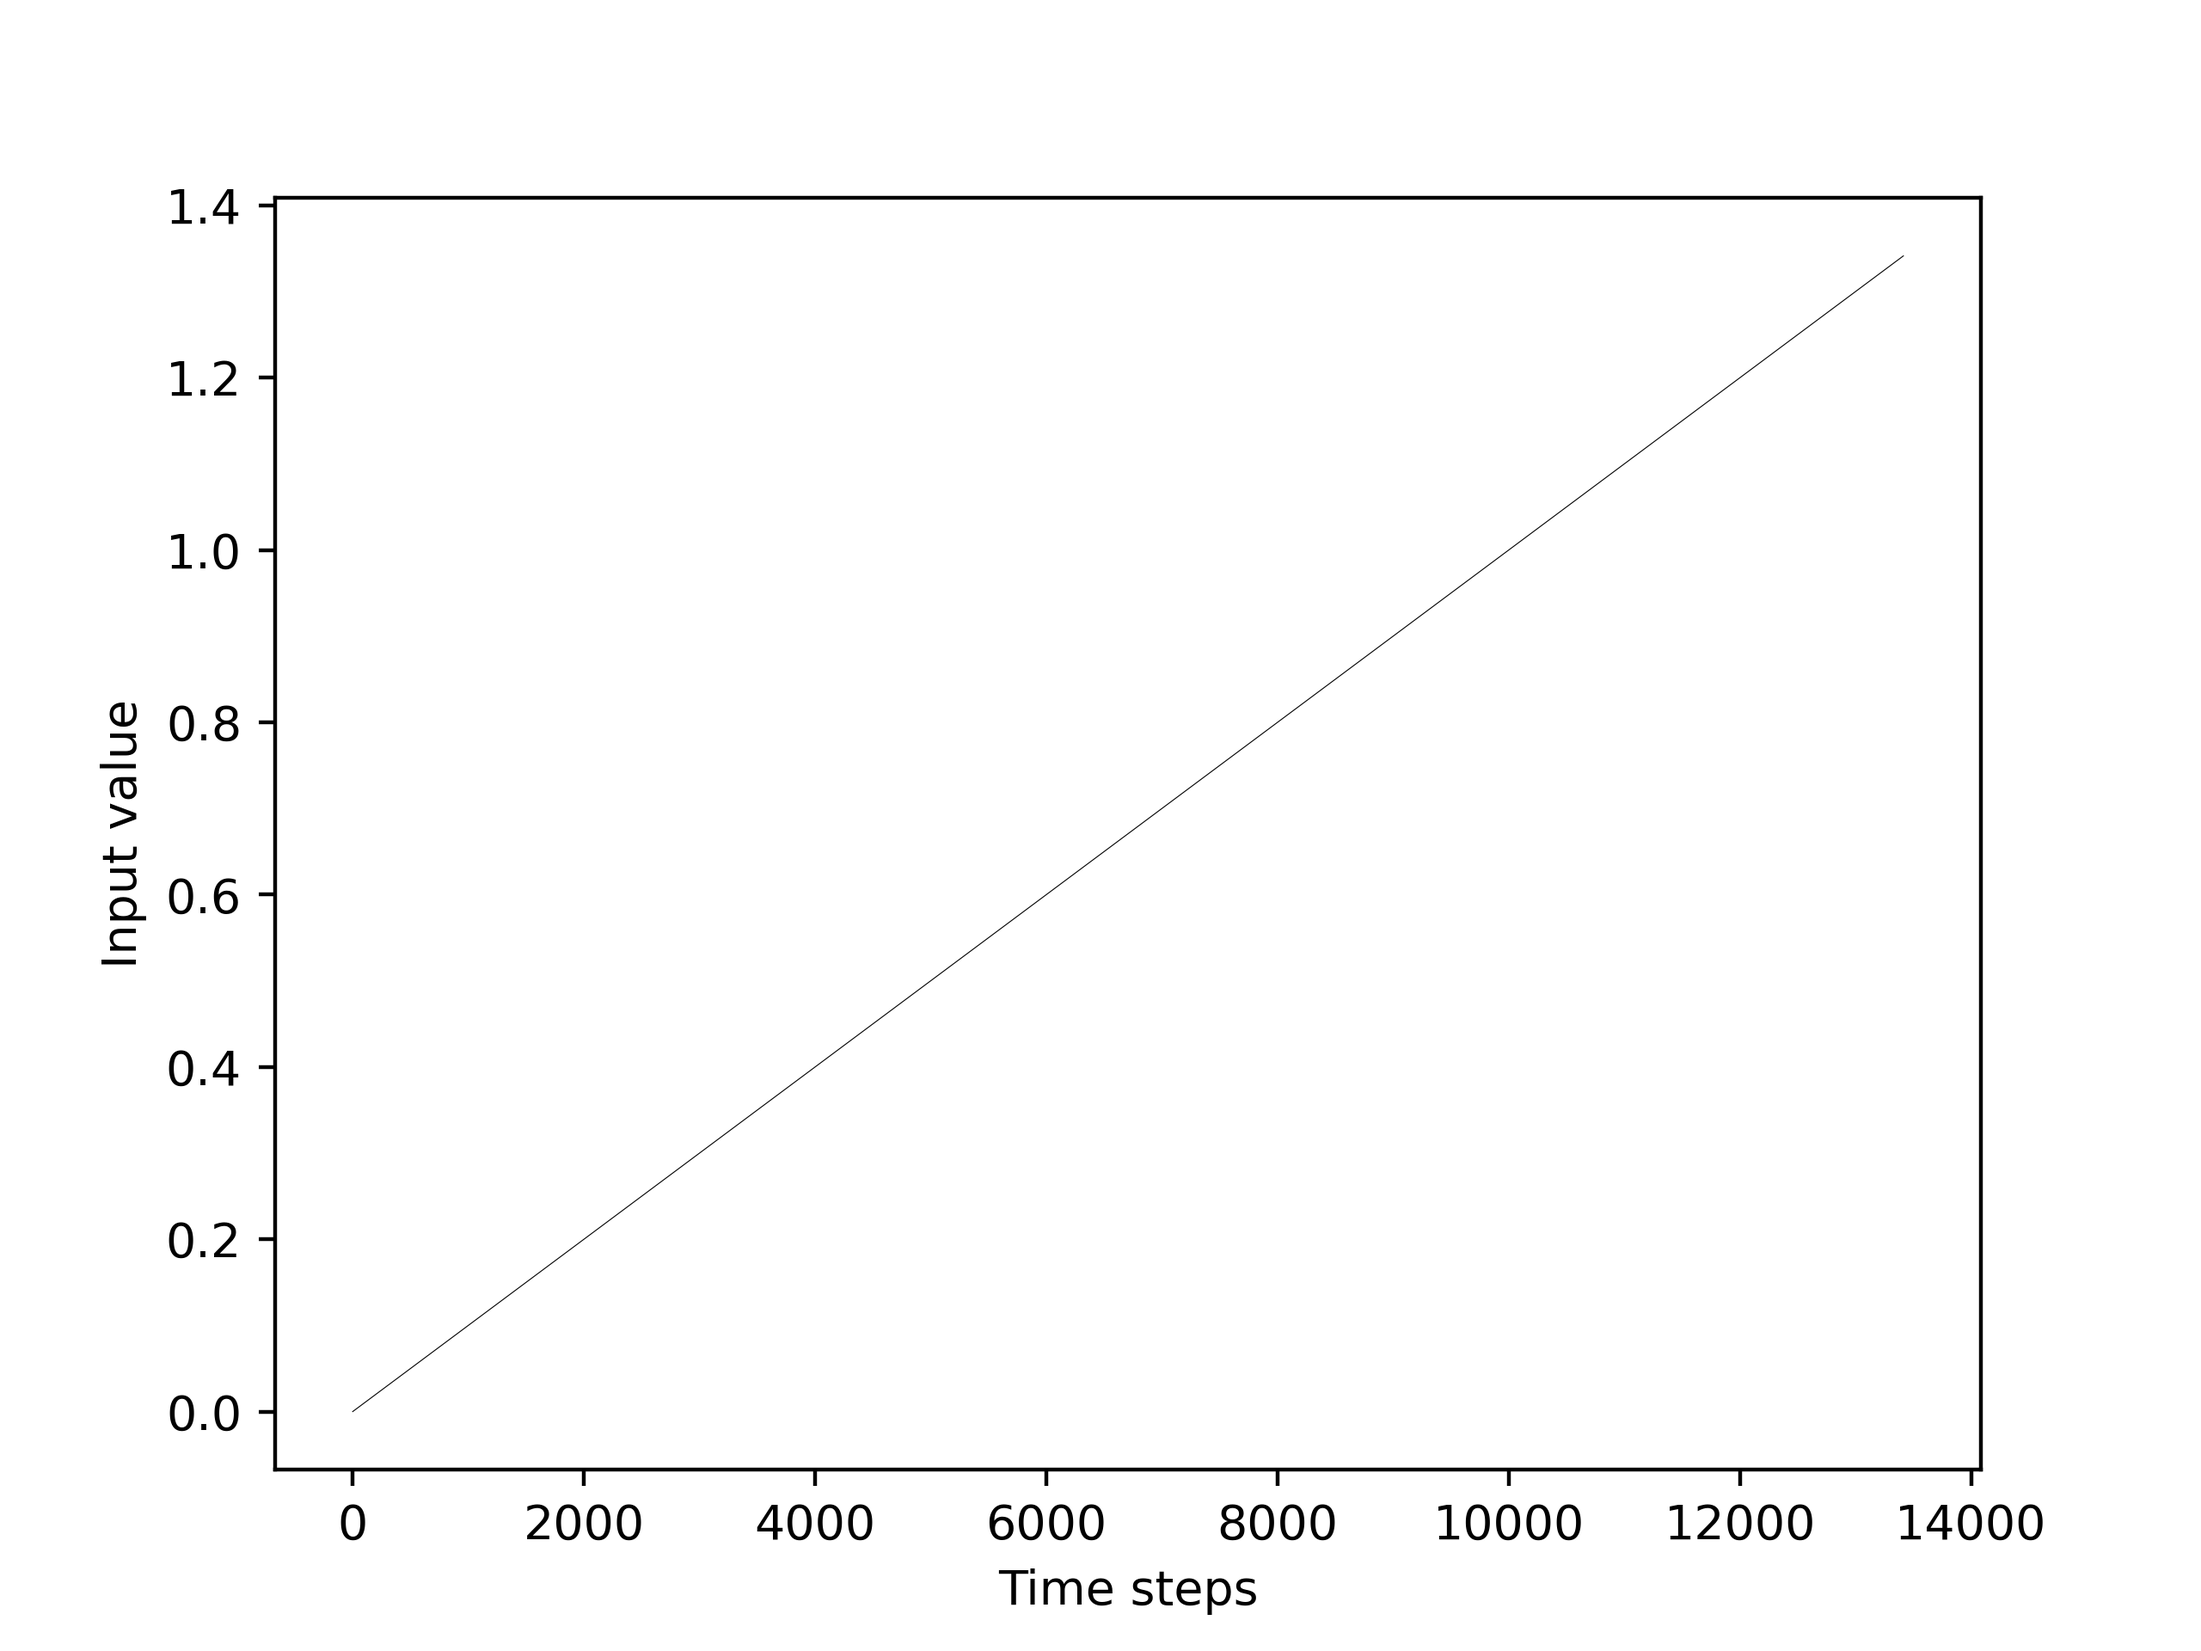
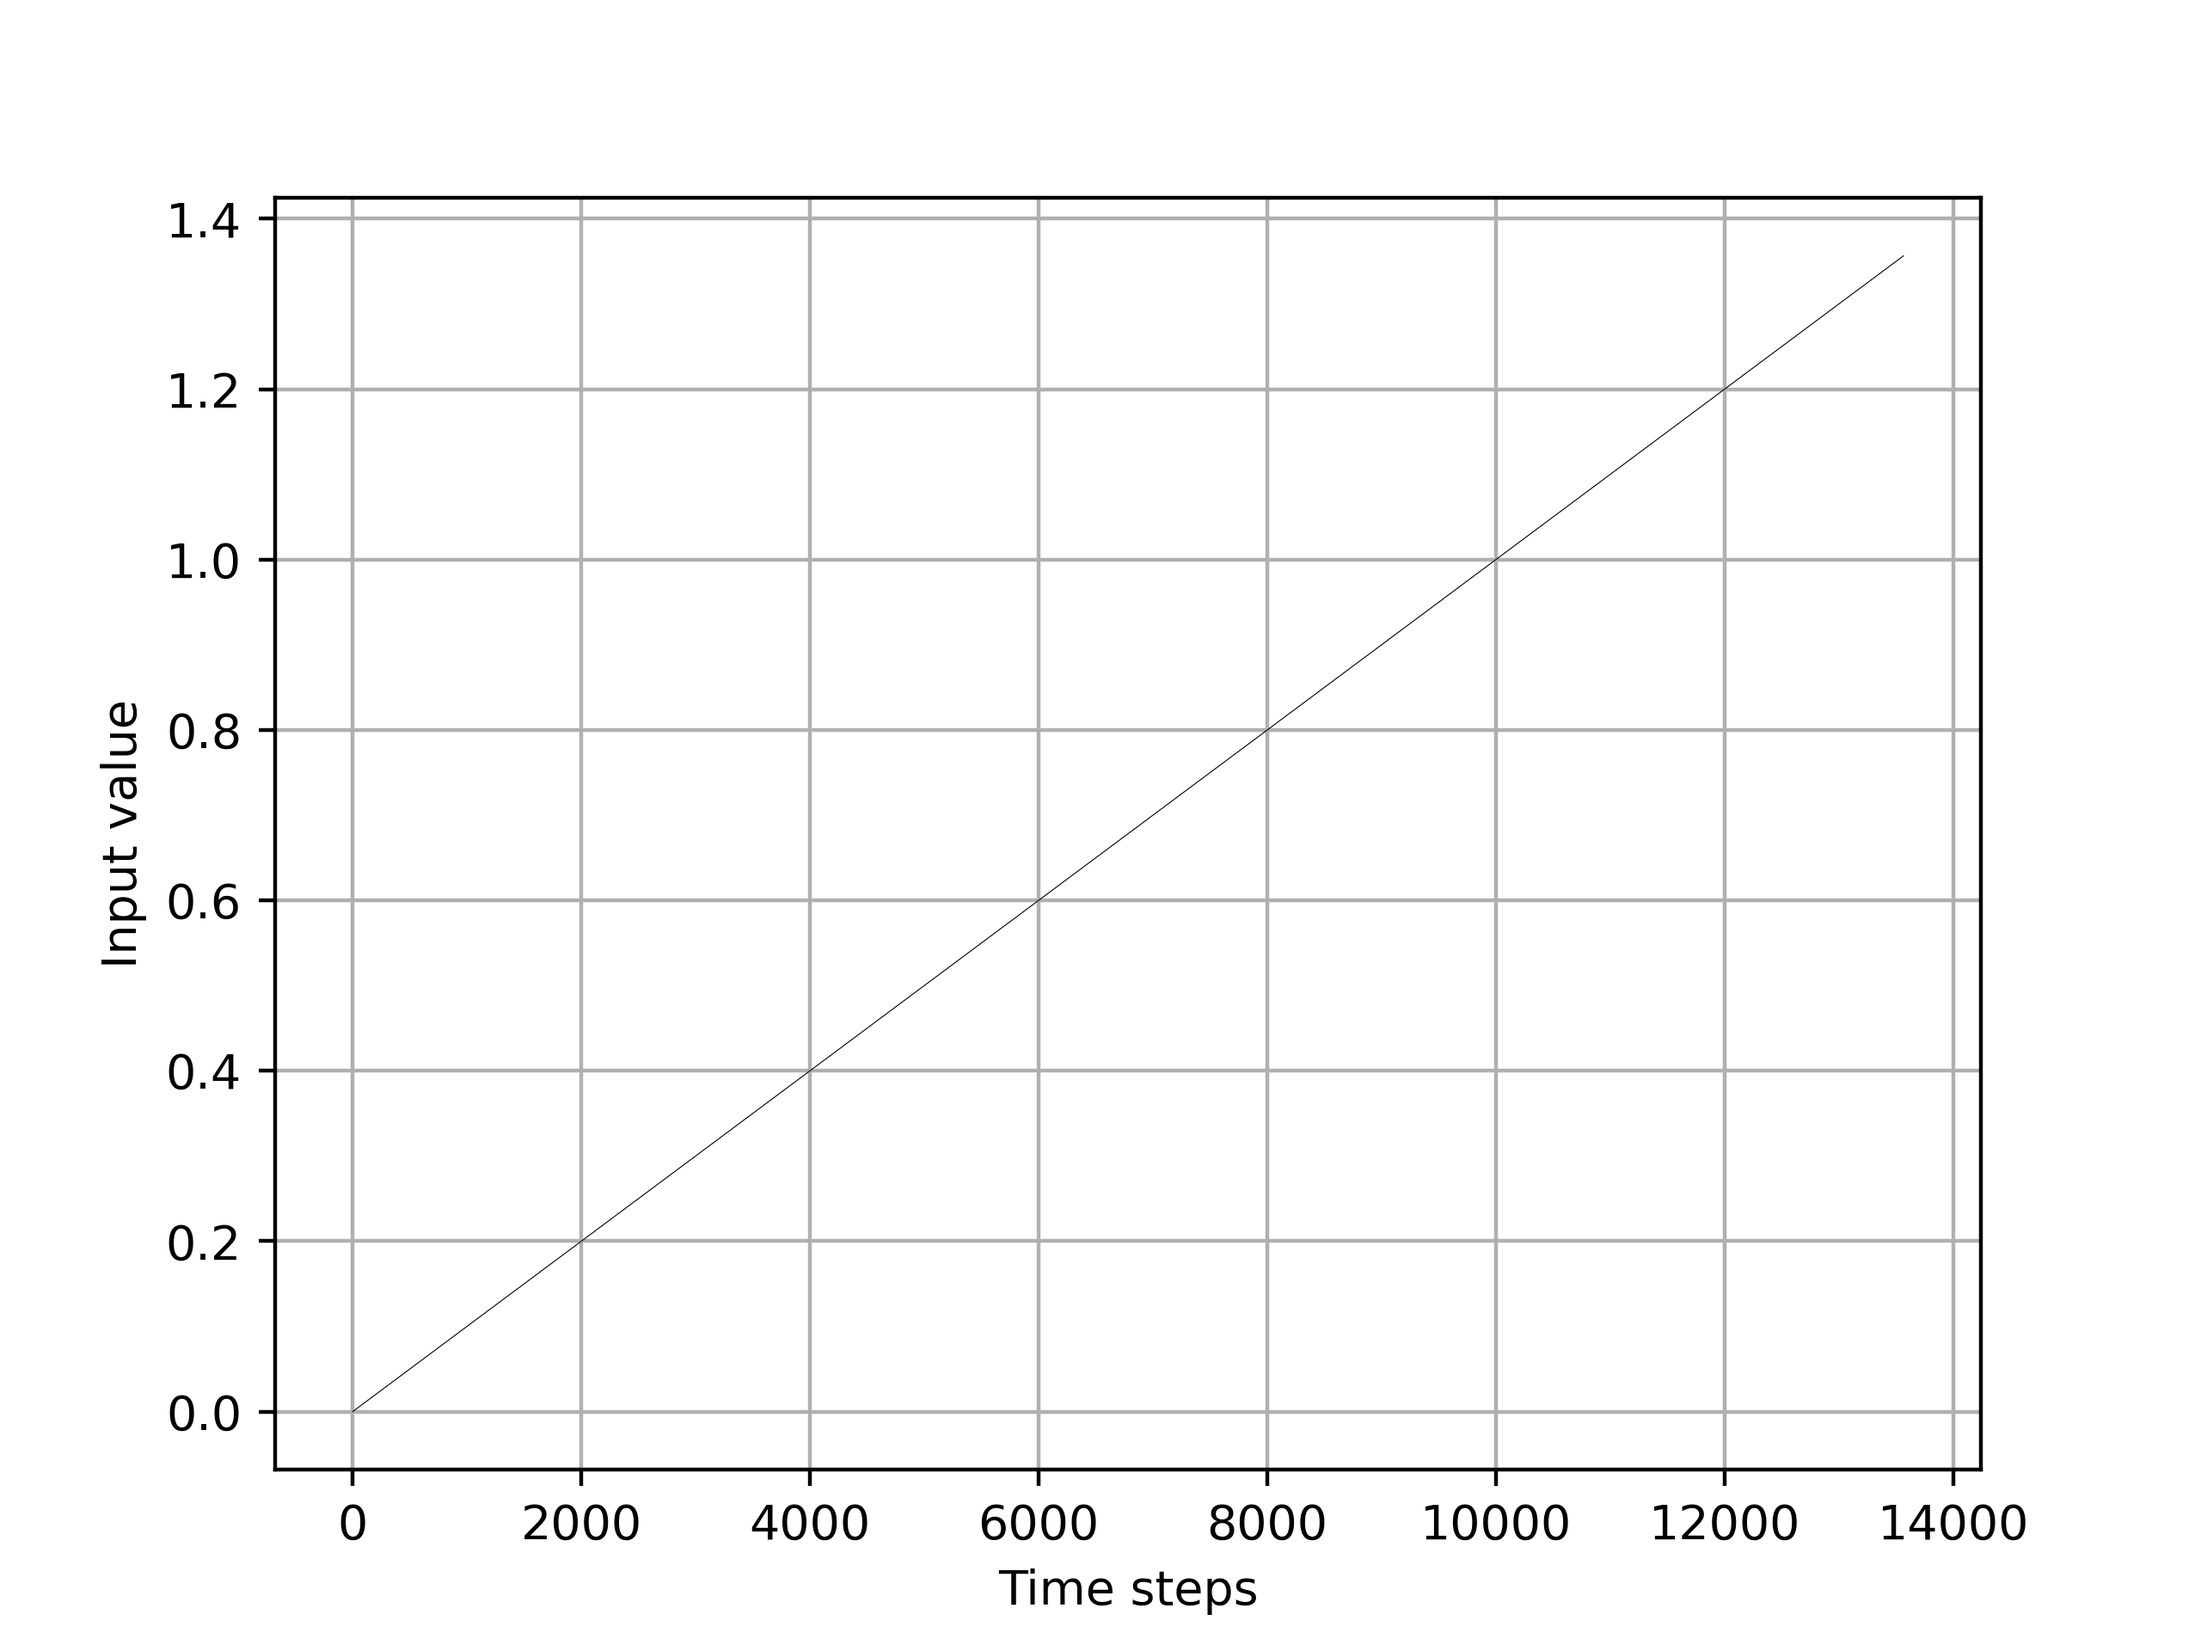
all Done!

diff --git a/Functions/base.cpp b/Functions/base.cpp
@@ -8,6 +8,8 @@ void genome::base (int N)
     ofstream enviroment ("./Outputs/envi.txt");
     ofstream uni ("./Outputs/uni.txt");
     ofstream du_uni ("./Outputs/du_uni.txt"); 
+    ofstream iso ("./Outputs/iso.txt");
+    ofstream du_iso ("./Outputs/du_iso.txt");
     int needed_networks;
     int du_needed_networks;
     double evolve = 0;
@@ -35,8 +37,8 @@ void genome::base (int N)
 
     Nedg = Nedg / number_networks;
     du_Nedg = du_Nedg / number_networks;
-    min_isolated_percent = n * 0.8;
-    du_min_isolated_percent = nn * 0.8;
+    min_isolated_percent = 0.9 * n;
+    du_min_isolated_percent = 0.9 *  nn;
 
     vector <int> dead_list;
     vector <int> du_dead_list;
@@ -56,12 +58,11 @@ void genome::base (int N)
 
         if (ini % 200 == 0)
         {
-            cout<<"saving st="<<ini<<endl;
+            cout<<"st="<<ini<<endl;
             ofstream temp ("./Outputs/temp.txt", ios::out | ios::trunc); 
             temp << evolve <<endl;
             temp << number_networks <<endl;
             save(number_networks, ini);
-            cout<<"Written!"<<endl;
         }
         for (int pl=0 ; pl < number_networks ; pl++)
         {
@@ -173,6 +174,17 @@ void genome::base (int N)
             du_E += dn[po].edges;
         }
 
+        int is = 0;
+        int du_is =0;
+
+        for (int po=0 ; po<number_networks ; po++)
+        { 
+            is += ne[po].n_isolate;
+            du_is += dn[po].n_isolate;
+        } 
+
+        iso << ini << '\t' << ((is + 0.0) / number_networks) << endl;
+        du_iso << ini << '\t' << ((du_is + 0.0) / number_networks) << endl;
         eg << ini << '\t' << ((E + 0.0) / (number_networks * n))<<endl;
         du_eg << ini << '\t' << ((du_E + 0.0) / ((number_networks)*nn)) <<endl;
         uni << ini << '\t' << Un << endl;
@@ -188,7 +200,7 @@ void genome::base (int N)
 
     }
 
-    cout<<"simulation done, now archiving results ..."<<endl;
+    cout<<'\n'<<"simulation done, wait ..."<<endl;
 
     string add = "st_" + to_string(step) + "," + "nn_" + to_string(number_networks) + "," + "mu_" + to_string(chance_of_new_connetion) + "," + "ref_env_=" + to_string(ref_Envmnt);
     

diff --git a/plotter.py b/plotter.py
@@ -34,12 +34,14 @@ plt.scatter([i[0] for i in Y], [i[1] for i in Y],label='duplicated',color='orang
 plt.xlabel("Time Steps")
 plt.ylabel("S")
 plt.legend()
+plt.grid()
 plt.savefig('./diagrams/survivebility.png',dpi=400)
 plt.close()
 
 plt.plot([i[0] for i in Z], [i[1] for i in Z],color='black', lw=0.2)
 plt.xlabel("Time steps")
 plt.ylabel("Input value")
+plt.grid()
 plt.savefig('./diagrams/env.png',dpi=400)
 plt.close()
 
@@ -51,6 +53,7 @@ plt.xscale('log')
 #plt.xlim(0,400)
 plt.xlabel("log [Time steps]")
 plt.ylabel("log[Number of Unique networks]")
+plt.grid()
 plt.savefig('./diagrams/un.png',dpi=400)
 plt.close()
 
@@ -58,5 +61,18 @@ plt.plot([i[0] for i in J], [i[1] for i in J],label='non-duplicated_edges',color
 plt.plot([i[0] for i in Q], [i[1] for i in Q],label='duplicated_edges',color='orange', alpha=0.6)
 plt.xlabel("Time step")
 plt.ylabel("Edges")
+plt.grid()
 plt.savefig('./diagrams/edge.png',dpi=400)
+plt.close()
+
+
+J = np.loadtxt("./Outputs/iso.txt")
+Q = np.loadtxt("./Outputs/du_iso.txt")
+
+plt.scatter([i[0] for i in J], [i[1] for i in J],label='non-duplicated_n_iso',color='blue', s=2)
+plt.scatter([i[0] for i in Q], [i[1] for i in Q],label='duplicated_n_iso',color='orange', alpha=0.6, s=2)
+plt.xlabel("Time step")
+plt.ylabel("number of isolated")
+plt.grid()
+plt.savefig('./diagrams/iso.png',dpi=400)
 plt.close()
